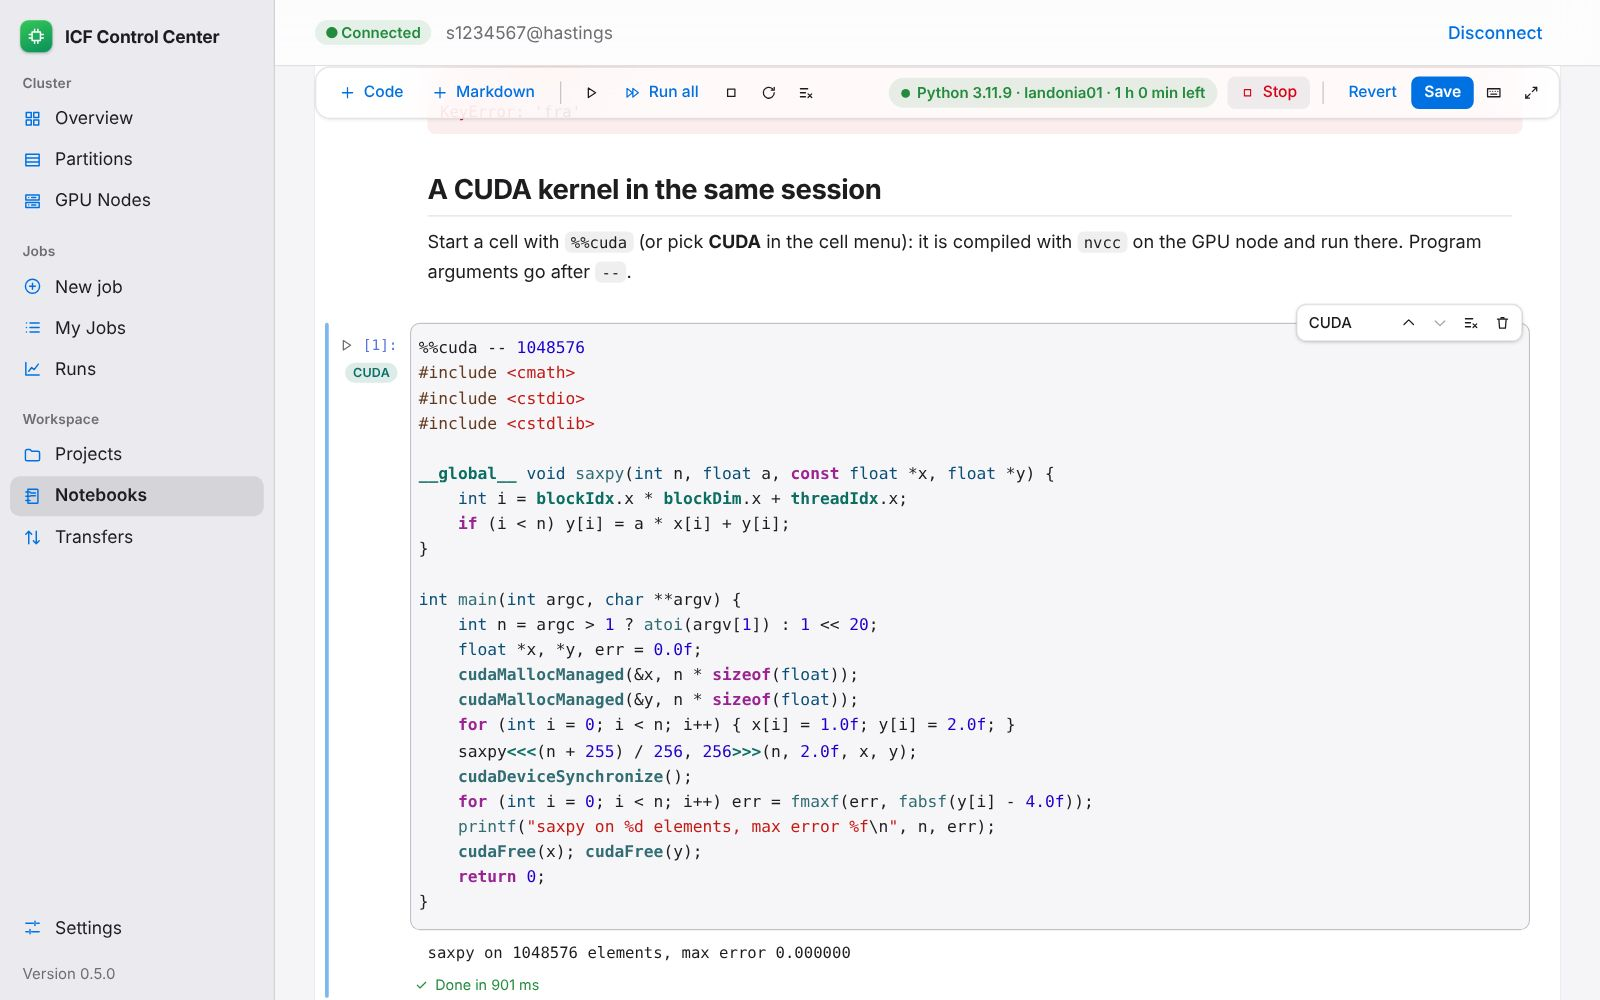
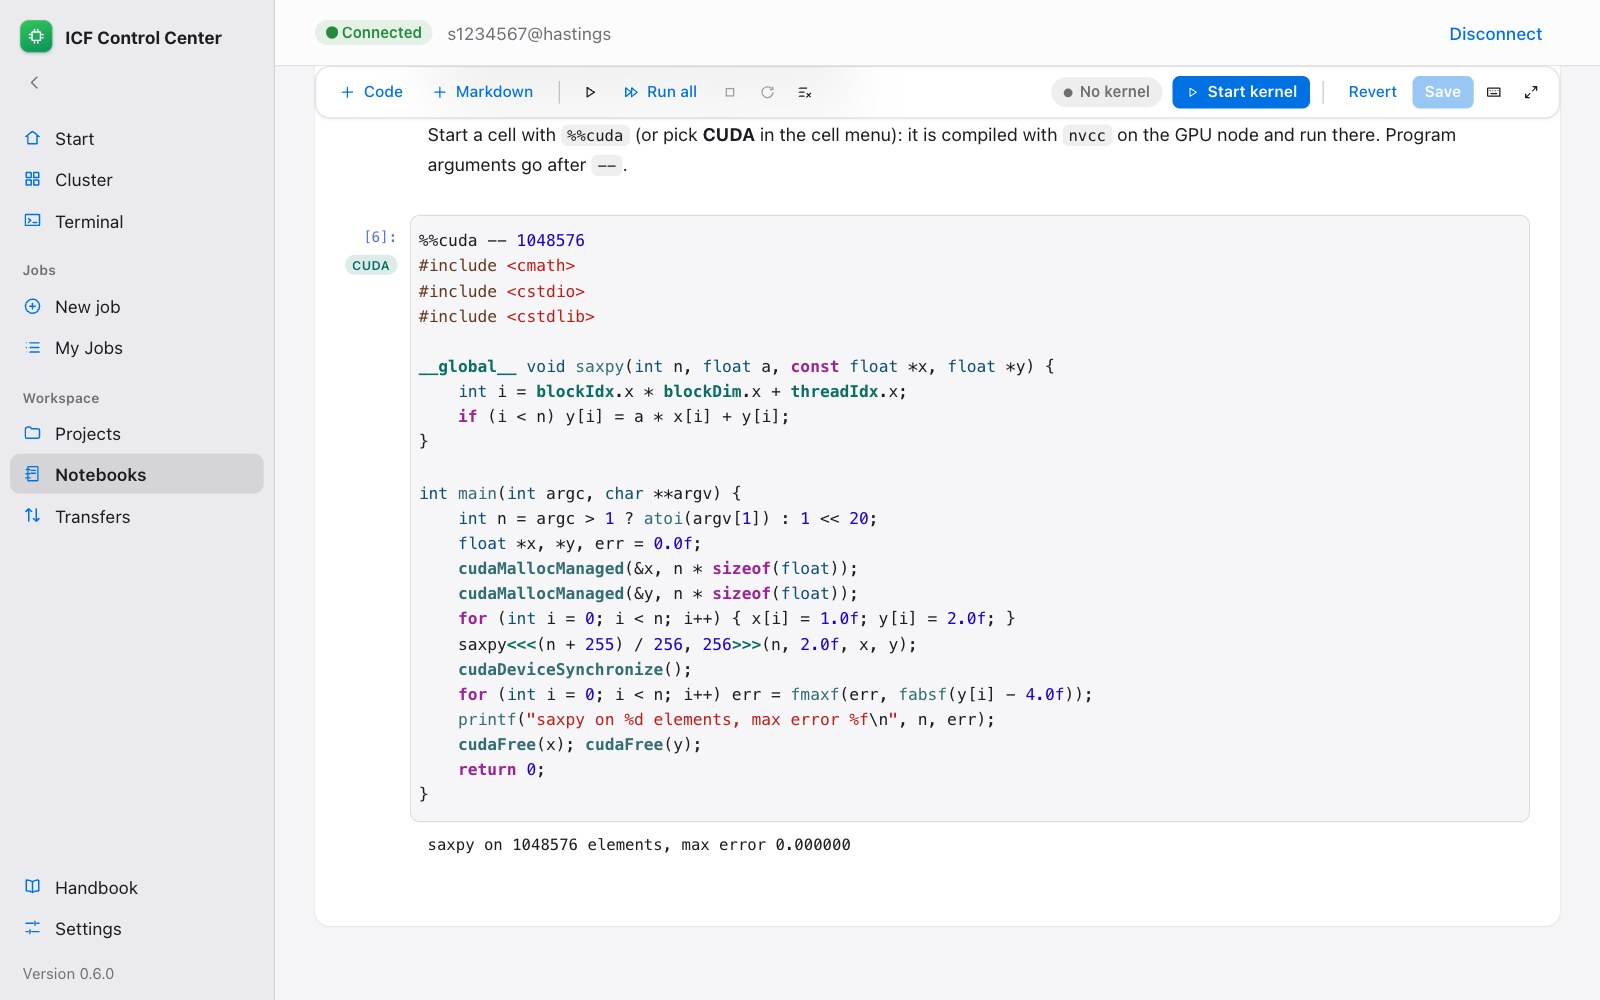
README: retake every screenshot for 0.6.0; add Start, Terminal and Handbook
Taken from the mock-backed preview (synthetic data) at the old size, 1280x800
at 1.25x (1600x1000): the new sidebar (Start, Cluster, Terminal, Handbook),
Version 0.6.0 and the current screens.

diff --git a/README.md b/README.md
@@ -18,7 +18,7 @@ everything — without remembering a single `sinfo`, `sbatch` or `squeue` flag.
 [Security](docs/SECURITY.md) ·
 [Changelog](docs/CHANGELOG.md)
 
-![Overview: GPUs by type with potentially free, allocated, unavailable and unknown counts (demo data)](docs/screenshots/overview.jpg)
+![Cluster overview: each partition with its potentially free, allocated, unavailable and unknown GPUs (demo data)](docs/screenshots/overview.jpg)
 
 </div>
 
@@ -161,11 +161,19 @@ worked. **ICF Control Center puts all of that in one window.**
 | **Run detail** | **Transfers** |
 | ![Run detail: logs, metrics with trends, outputs and checkpoints](docs/screenshots/run-detail.jpg) | ![Transfers: uploads and downloads verified with SHA-256](docs/screenshots/transfers.jpg) |
 
+### Terminal and handbook
+
+| Head node terminal with the command library | Handbook (searchable, exportable) |
+|---|---|
+| ![Terminal: a shell on the ICF head node beside the command library, with Insert and Copy](docs/screenshots/terminal.jpg) | ![Handbook: contents, search, Save as Markdown and the MLS course section](docs/screenshots/handbook.jpg) |
+
 ### And more
 
-| Projects | Dark mode |
+| Start | Projects |
 |---|---|
-| ![Projects: recent projects and a browser for your ICF home](docs/screenshots/projects.jpg) | ![Overview in dark mode](docs/screenshots/overview-dark.jpg) |
+| ![Start: the next step, GPU milestones and the GPUs free right now](docs/screenshots/start.jpg) | ![Projects: recent projects and a browser for your ICF home](docs/screenshots/projects.jpg) |
+| **Dark mode** | |
+| ![Overview in dark mode](docs/screenshots/overview-dark.jpg) | |
 
 ## ⬇ Install
 
